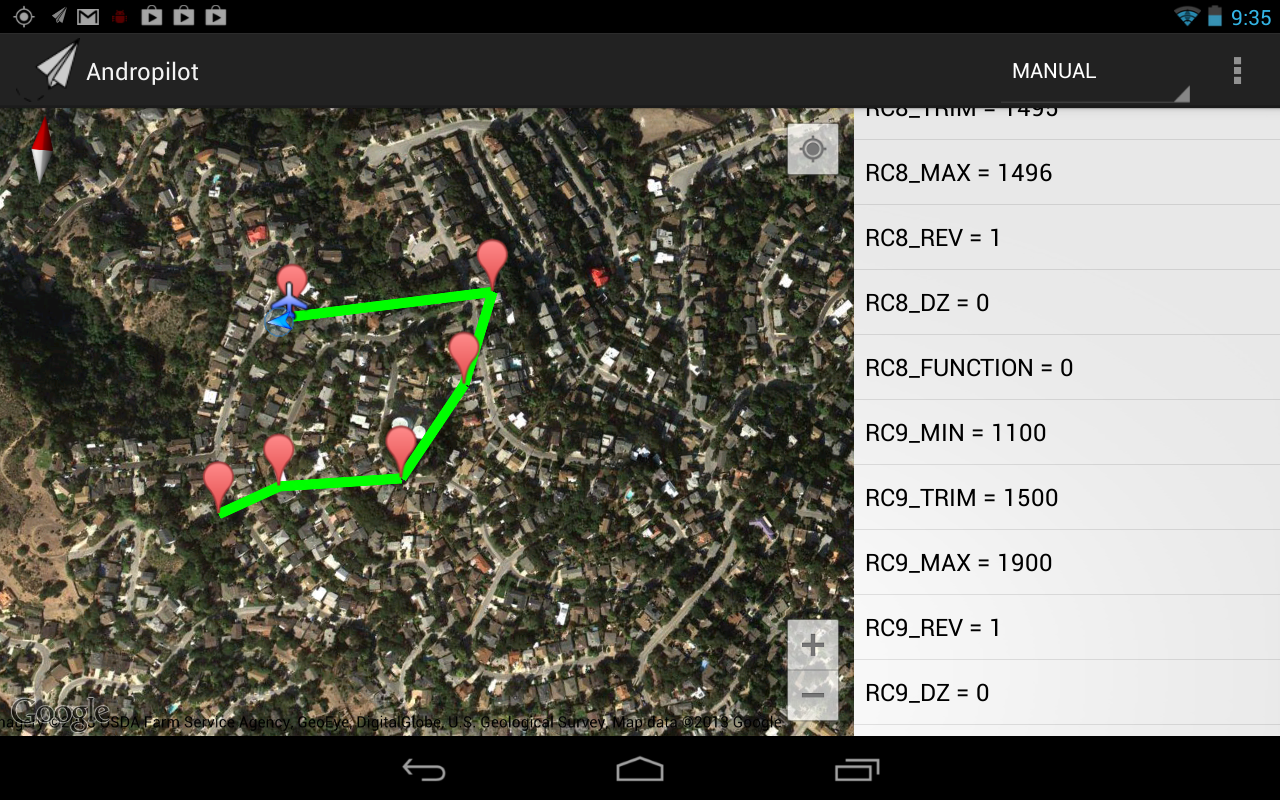
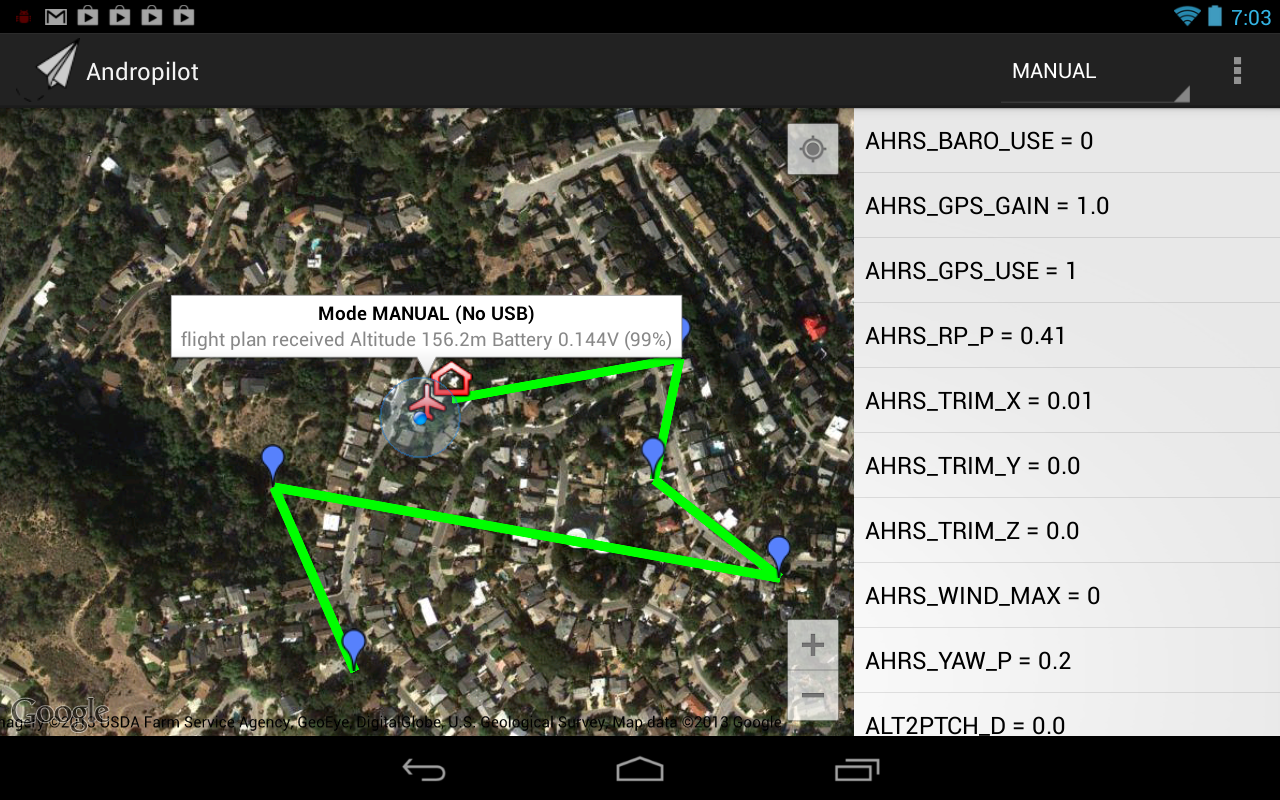
make parameter list less ugly

diff --git a/RELEASE-NOTES.md b/RELEASE-NOTES.md
@@ -1,3 +1,7 @@
+# 0.1.16
+
+* clean up param list to be two nice columns
+
 # 0.1.15
 
 * Show home icon for first waypoint (home).  For safety that waypoint is not yet draggable.
@@ -7,7 +11,7 @@
 * Substantial cleanup of map code
 * We now listen for WAYPOINT_CURRENT message and show current waypoint in red
 
-* FIXME: Add checkbox to save params to flash (currently changes just live in RAM)
+For next release:
 * FIXME: add dropdown menu on waypoint (include goto, delete)
 * FIXME: allow click to create new waypoint (between two closest waypoints)
 * FIXME: show # of sats in view & warn if below min # (per http://www.diydrones.com/forum/topics/apm2-5-gone)
